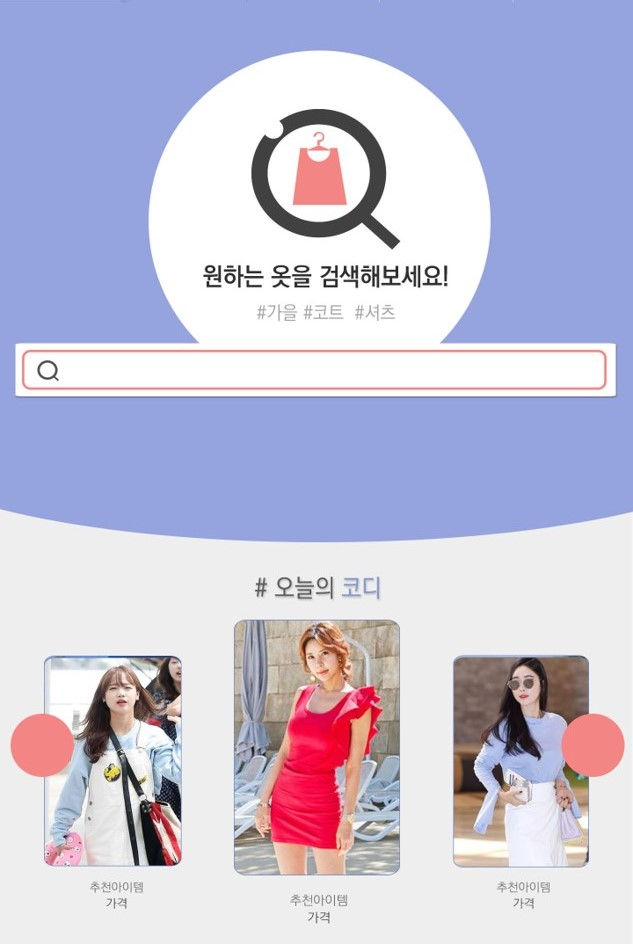
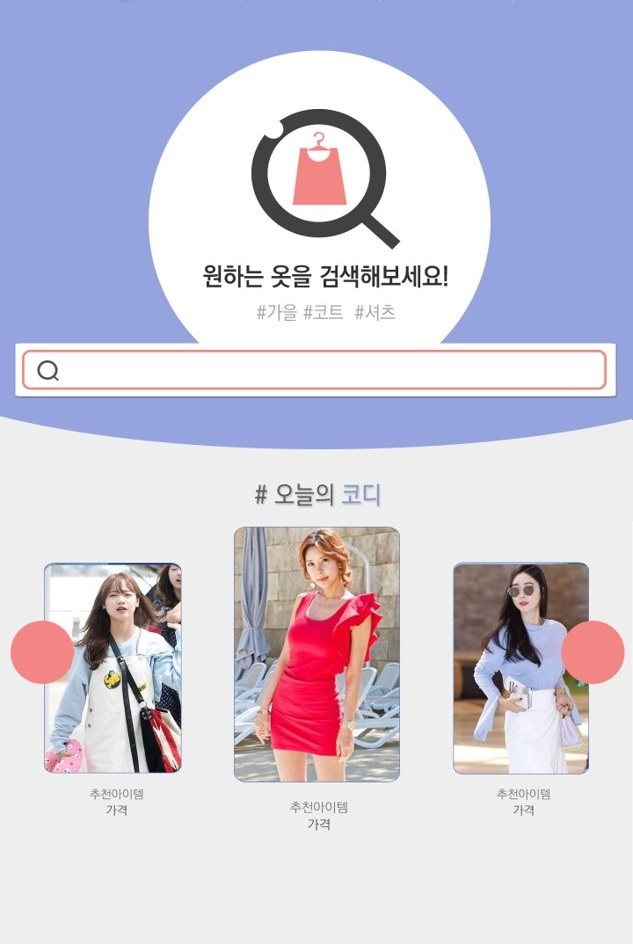
메인 바텀바 & 연동 완료

diff --git a/css/coco.css b/css/coco.css
@@ -74,12 +74,12 @@
         position: fixed;
         bottom: 0px;
         width:100%;
-        display: inline-block;
+        display: flex;
         height: 15%;
         background-color: #95a4df;
     }
     .bottom-box{
-        display: inline-block;
+        display: flex;
         width: 200px;
         height: 100px;
         margin: 1em;

diff --git a/lib/coco.lib.php b/lib/coco.lib.php
@@ -7,20 +7,37 @@ include_once(G5_LIB_PATH.'/aes_encrypt.php');
 
 $ch = curl_init();
 
-curl_setopt($ch, CURLOPT_CONNECTTIMEOUT, 5);
-curl_setopt($ch, CURLOPT_FRESH_CONNECT, true);
-curl_setopt($ch, CURLOPT_TIMEOUT_MS, 1);
+// curl_setopt($ch, CURLOPT_CONNECTTIMEOUT, 5);
+// curl_setopt($ch, CURLOPT_FRESH_CONNECT, true);
+// curl_setopt($ch, CURLOPT_TIMEOUT_MS, 5);
 
-function request_virtual_fitting($it_id, $mb_id){
+function request_virtual_fitting($item, $mb_id){
 	global $ch;
+	$items = json_decode($item);
+	$cate = 0;
+	$item_id = 0;
+	$sql = "";
 
-	$postData = array(
-	    'userid' => $mb_id,
-	    'productid' => $it_id,
+
+
+	foreach($items as $ca => $it_id){
+		$sql = "SELECT it_img1 FROM `CoCo_item` where it_id='{$it_id}'";
+		$row = sql_query($sql);
+		$row = sql_fetch_array($row);
+		$cate_id = $ca;
+		$item_id = $row['it_img1'];
+	}
+
+
+    $postData = array(
+	    'userid' => "{$mb_id}",
+		'productid' => "{$row['it_img1']}",
+		'category' => "{$cate_id}",
 	);
 
+	
 	curl_setopt_array($ch, array(
-	    CURLOPT_URL => DeepLearning_Server.'/submit',
+	    CURLOPT_URL => 'http://121.140.133.98'.'/submit',
 	    CURLOPT_RETURNTRANSFER => true,
 	    CURLOPT_POST => true,
 	    CURLOPT_POSTFIELDS => $postData,
@@ -39,11 +56,11 @@ function request_virtual_fitting($it_id, $mb_id){
 		$output['src'] = NULL;
 	}
 
-	$codi_url_sql = "UPDATE CoCo_cody SET image_url='https://www.google.co.kr/images/branding/googlelogo/2x/googlelogo_color_272x92dp.png' where mb_id='{$mb_id}'";
+//	$codi_url_sql = "UPDATE CoCo_cody SET image_url='https://www.google.co.kr/images/branding/googlelogo/2x/googlelogo_color_272x92dp.png' where mb_id='{$mb_id}'";
 	// $codi_url_sql = "UPDATE CoCo_cody SET image_url='{resopnse_url}' where mb_id='{$mb_id}'";
-	sql_query($codi_url_sql);
+//	sql_query($codi_url_sql);
 
-	return $output;
+	return json_encode($output);
 }
 
 function notification_item_Deep($it_id){

diff --git a/thema/Basic/shop.tail.php b/thema/Basic/shop.tail.php
@@ -79,7 +79,7 @@ if($pre_codi_url == NULL)
 		<footer class="at-footer">
 			<nav class="at-links">
 				<div class="at-container">
-					<ul class="pull-left">
+					<!--<ul class="pull-left">
 						<li><a href="<?php echo G5_BBS_URL;?>/page.php?hid=intro">사이트 소개</a></li> 
 						<li><a href="<?php echo G5_BBS_URL;?>/page.php?hid=provision">이용약관</a></li> 
 						<li><a href="<?php echo G5_BBS_URL;?>/page.php?hid=privacy">개인정보처리방침</a></li>
@@ -90,7 +90,7 @@ if($pre_codi_url == NULL)
 						<li><a href="<?php echo G5_BBS_URL;?>/page.php?hid=guide">이용안내</a></li>
 						<li><a href="<?php echo $at_href['secret'];?>">문의하기</a></li>
 						<li><a href="<?php echo $as_href['pc_mobile'];?>"><?php echo (G5_IS_MOBILE) ? 'PC' : '모바일';?>버전</a></li>
-					</ul>
+					</ul> -->
 					<div class="clearfix"></div>
 				</div>
 			</nav>

diff --git a/skin/apms/item/shop/item.skin.php b/skin/apms/item/shop/item.skin.php
@@ -462,7 +462,7 @@ $is_seller = ($it['pt_id'] && $it['pt_id'] != $config['cf_admin']) ? true : fals
 							return false;
 						} else {
 							if(confirm("피팅 카트에 담겼습니다.\n\n바로 확인하시겠습니까?")) {
-								document.location.href = "./fittingroom.php";
+								document.location.href = "/fittingroom.php";
 							}
 						}
 					});

diff --git a/skin/fittingroom/fittingroom.skin.php b/skin/fittingroom/fittingroom.skin.php
@@ -137,9 +137,9 @@ $item_url = Array();
 
 		$('#loader').css("display", "block");  
 
-		t_codi[ca_id] = it_id;
+		t_codi[ca_id] = it_id.toString();
 
-
+		// console.log(JSON.stringify(t_codi));
 		$.post("/shop/fitting_request.php", { it_id : JSON.stringify(t_codi)}, function(res) {
 			console.log(res);
 			var result = JSON.parse(res);

diff --git a/skin/search/csearch.skin.php b/skin/search/csearch.skin.php
@@ -16,7 +16,7 @@
     var cssstring = `background : url(/img/coco/search_main.jpg);
     background-color: #95a4df;
     margin-top:5px;
-    background-position: center;
+    background-position: center top;
     background-repeat: no-repeat;
 	background-size: cover;
 	overflow: hidden;

diff --git a/shop/fitting_request.php b/shop/fitting_request.php
@@ -10,9 +10,13 @@ if (!$is_member)
 if(!$it_id)
     die('상품 코드가 올바르지 않습니다.');
 
+$it_id = str_replace("\\", "", $it_id);
+
 
 
 $re = request_virtual_fitting($it_id, $member['mb_id']);
 
-echo(json_encode($re));
+
+echo(($re));
+// echo(json_encode($re));
 ?>
